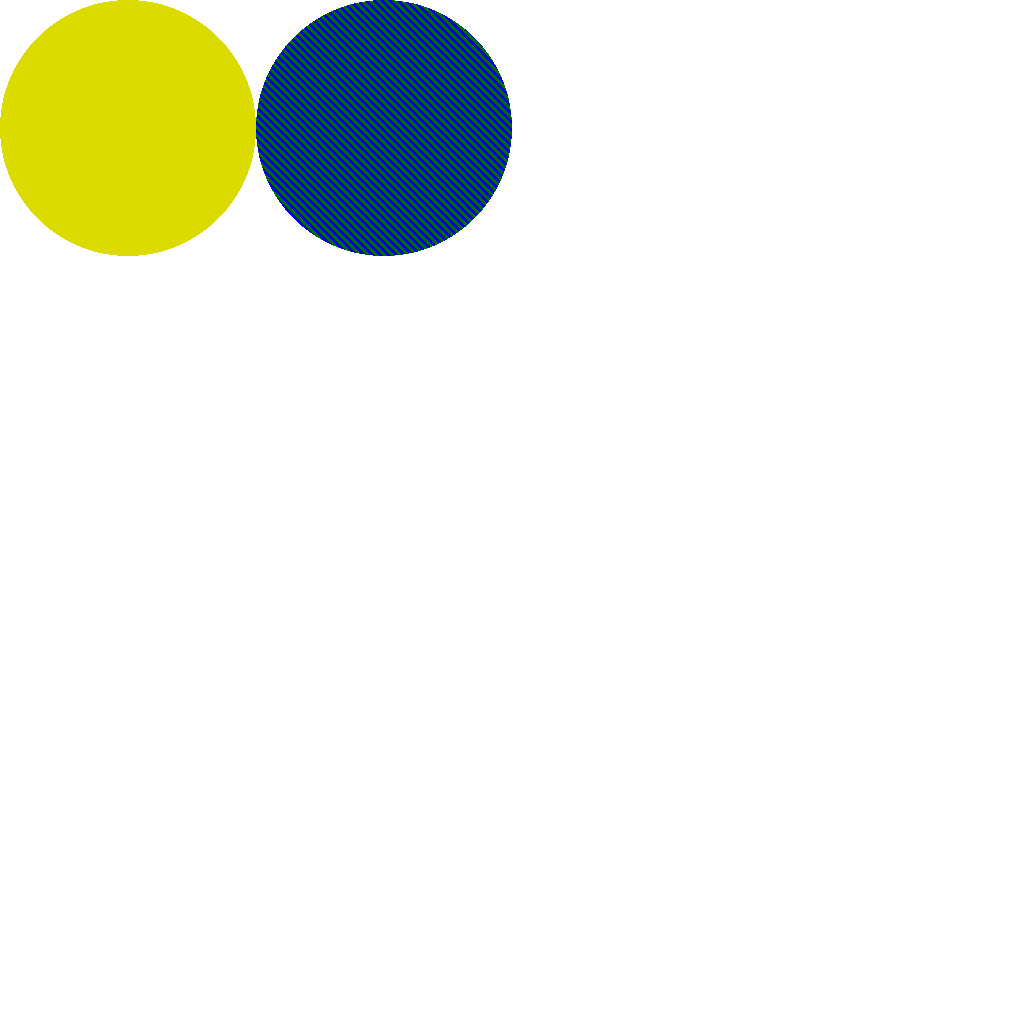
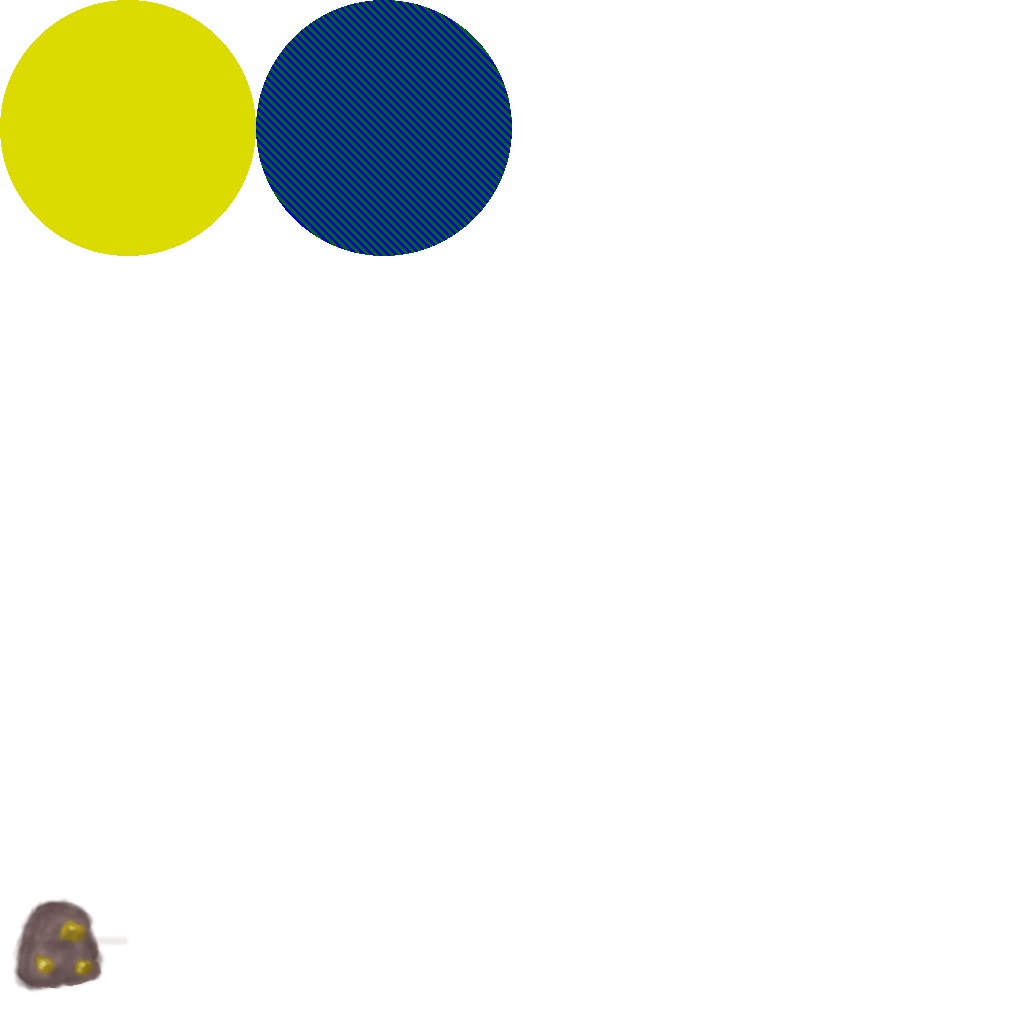
ost

Changed region(s): [[0.0, 0.875, 0.125, 0.9688]]

diff --git a/server/main.c b/server/main.c
@@ -126,6 +126,11 @@ static void _setup(Body *body, size_t bodies) {
 	}
 }
 
+void prepare_orbit(Body *b) {
+	b->velocity.x =sqrt(G*(body[0].mass + b->mass)/fabs(b->position.x - body[0].position.x));
+	b->velocity.y =sqrt(G*(body[0].mass + b->mass)/fabs(b->position.y - body[0].position.y));
+	printf("(%f, %f) (%f, %f)\n", b->position.x, b->position.y, b->velocity.x, b->velocity.y);
+}
 
 void *server_main(void *argleblargle) {
 	Packet p = {};
@@ -152,7 +157,7 @@ void *server_main(void *argleblargle) {
 			if (player) {
 				strcpy(p.lobby.name, player->pname);
 			} else {
-				strcpy(p.lobby.name, "Arne");
+				strcpy(p.lobby.name, "Unknown");
 			}
 				network_broadcast(&p, sizeof(Packet));
 		}
@@ -171,10 +176,21 @@ void server_start_game() {
 
 void server_start() {
 	Packet p;
+	int i;
 
 	body[1].velocity.y = sqrt(G*(body[0].mass + body[1].mass)/DIST(body[0], body[1]));
 	body[2].velocity.y = sqrt(G*(body[0].mass + body[2].mass)/DIST(body[0], body[2]));
 	body[3].velocity.y = sqrt(G*(body[2].mass + body[3].mass)/DIST(body[2], body[3]));
+	
+	for(i = 4; i < BODIES; i++) {
+		//printf("angle %f\n", 2.0*M_PI*(BODIES - 4 - i)/((double) (BODIES - 4)));
+		body[i].position.x = 5.0*cos(2.0*M_PI*(BODIES - 4 - i)/((double) (BODIES - 4)));
+		body[i].position.y = 5.0*sin(2.0*M_PI*(BODIES - 4 - i)/((double) (BODIES - 4)));
+		body[i].mass = 1000.0;
+		body[i].movable = false;
+		body[i].sprite = 74;
+		prepare_orbit(body + i);
+	}
 	
 	pthread_t serber;
 	pthread_create(&serber, NULL, server_main, NULL);
@@ -191,8 +207,7 @@ void server_packet_dispatch(Packet p, unsigned long addr) {
 	if (!init) {
 		if (p.lobby.type != PACKET_TYPE_LOBBY || p.lobby.begin != 1)
 			return;
-
-		printf("begin %s arne\n", p.lobby.name);
+		
 		p.lobby.begin = 6;
 		network_send(addr, &p, sizeof(Packet));
 		

diff --git a/client/object.c b/client/object.c
@@ -136,7 +136,7 @@ void object_draw() {
 			if (i == player_get())
 				object_draw_tractor_beam(obj[i].dx, -obj[i].dy, obj[i].angle, 1.0);
 			d_sprite_draw(obj[i].pic.sprite);
-			player_draw_nametag("Arne", 0, obj[i].x + 32, obj[i].y - 16);
+			//player_draw_nametag("Arne", 0, obj[i].x + 32, obj[i].y - 16);
 		} else
 			d_render_tile_draw(obj[i].pic.tile, 1);
 	}
@@ -235,7 +235,7 @@ void object_draw_tractor_beam(double x, double y, double angle, double length) {
 
 		x1 += x, x2 += x;
 		y1 += y, y2 += y;
-		fprintf(stderr, "%f %f %f %f, %f %f\n", x1, y1, x2, y2, ami, ama);
+		//fprintf(stderr, "%f %f %f %f, %f %f\n", x1, y1, x2, y2, ami, ama);
 		d_render_line_move(dl, i, x1 * coordinate_scale, y1 * coordinate_scale, x2 * coordinate_scale, y2 * coordinate_scale);
 	}
 

diff --git a/client/lobby.c b/client/lobby.c
@@ -46,7 +46,7 @@ void lobby_init() {
 void lobby_network_handler() {
 	UI_PROPERTY_VALUE v;
 	Packet pack;
-	char name[256];
+	char name[256], *s;
 	unsigned long ip;
 	int i;
 	
@@ -58,8 +58,15 @@ void lobby_network_handler() {
 	if(pack.lobby.begin == 3) {
 		v = lobby.list->get_prop(lobby.list, UI_LISTBOX_PROP_SIZE);
 		for(i = 0; i < v.i; i++) {
-			if(strtoul(ui_listbox_get(lobby.list, i), NULL, 10) == ip)
-				return;
+			s = ui_listbox_get(lobby.list, i);
+			if(strtoul(s, NULL, 10) == ip) {
+				if(strstr(s, "Unknown")) {
+					sprintf(name, "%lu: %s", ip, pack.lobby.name);
+					ui_listbox_set(lobby.list, i, name);
+					return;
+				} else
+					return;
+			}
 		}
 		sprintf(name, "%lu: %s", ip, pack.lobby.name);
 		ui_listbox_add(lobby.list, name);

diff --git a/server/player.c b/server/player.c
@@ -99,7 +99,7 @@ void player_thread(Packet pack, unsigned long addr) {
 					pack.type = PACKET_TYPE_LOBBY;
 					pack.lobby.begin = 6;
 					strcpy(pack.lobby.name, next->pname);
-					fprintf(stderr, "Telling player about %s addr %i\n", pack.lobby.name, addr);
+					fprintf(stderr, "Telling player about %s addr %lu\n", pack.lobby.name, addr);
 					network_send(addr, &pack, sizeof(pack));
 				}
 

diff --git a/client/main.c b/client/main.c
@@ -77,6 +77,7 @@ void game_state(GameState state) {
 			for (i = 0; i < objs; i++)
 				object_init_object(i, 64);
 			object_init_object(0, 65);
+			object_init_object(0, 74);
 			pthread_create(&game.thread, NULL, object_thread, NULL);
 			#ifndef __DEBUG__
 			//d_input_grab();

diff --git a/server/main.h b/server/main.h
@@ -4,7 +4,7 @@
 #include "player.h"
 #include <protocol.h>
 
-#define BODIES 4
+#define BODIES 10
 #define PRE_SIMULATIONS 20
 
 #define WIDTH 100
